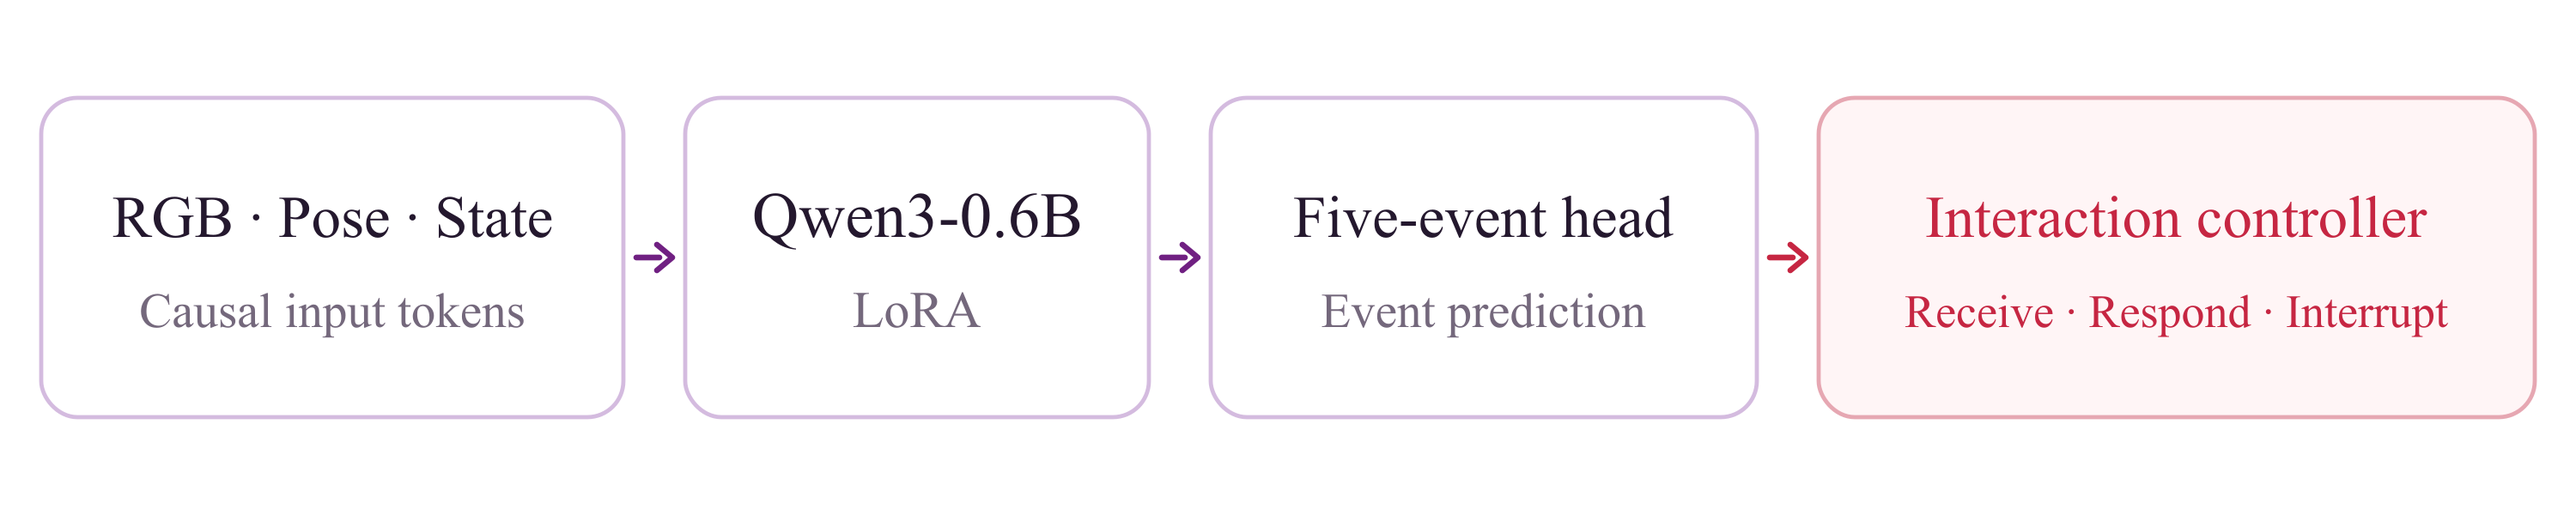
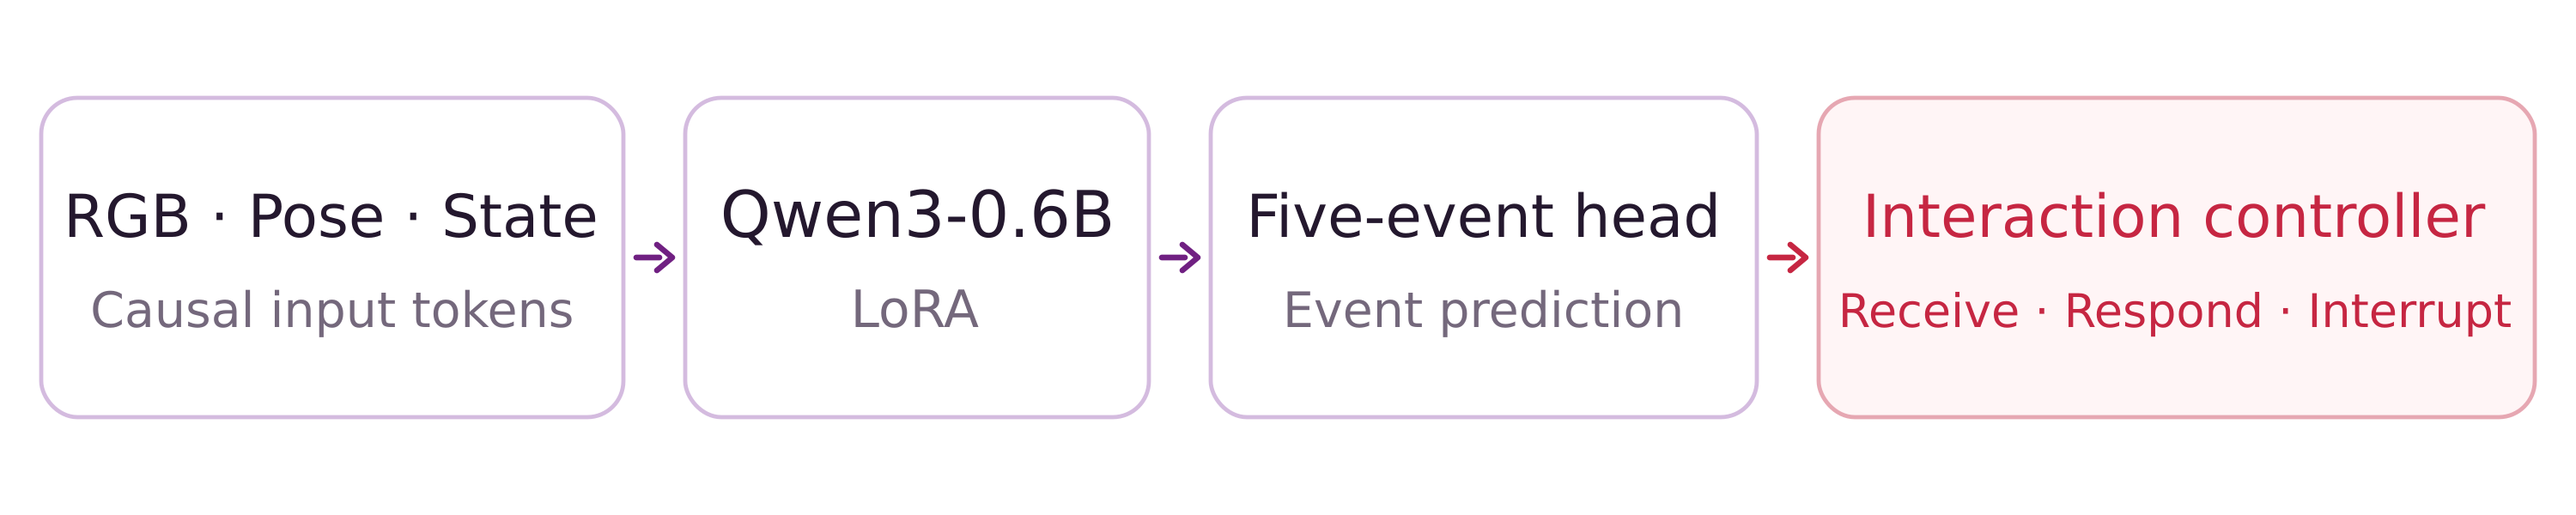
Match method diagram to chart font without bold text

diff --git a/docs/assets/build_method_summary.py b/docs/assets/build_method_summary.py
@@ -1,8 +1,8 @@
 """Build the compact SignDuplex paper-method SVG and its 3x PNG fallback.
 
 Run: python docs/assets/build_method_summary.py
-If Times New Roman is not installed, pass --font /path/to/times.ttf.
-Requires matplotlib, CairoSVG, and Times New Roman Regular.
+Optionally pass --font /path/to/DejaVuSans.ttf.
+Requires matplotlib, CairoSVG, and DejaVu Sans Regular.
 Edit LABELS to change native labels;
 the exported SVG outlines the font to keep typography consistent in README.
 """
@@ -23,7 +23,7 @@ from matplotlib.textpath import TextPath
 ROOT = Path(__file__).resolve().parent
 WIDTH, HEIGHT, SCALE = 1000, 200, 3
 PURPLE, RED, INK, MUTED = "#702082", "#c62642", "#24182e", "#74687c"
-FONT = "Times New Roman"
+FONT = "DejaVu Sans"
 LABELS = [
     (16, 226, "RGB · Pose · State", "Causal input tokens", 23, 19, False),
     (266, 180, "Qwen3-0.6B", "LoRA", 25, 20, False),
@@ -60,8 +60,8 @@ def build(font_file=None):
     font_file = font_file or findfont(
         FontProperties(family=FONT, weight="normal"), fallback_to_default=False)
     font = get_font(font_file)
-    if font.family_name != FONT or font.style_name != "Regular":
-        raise ValueError("The supplied font must be Times New Roman Regular.")
+    if font.family_name != FONT or font.style_name not in ("Book", "Regular"):
+        raise ValueError("The supplied font must be DejaVu Sans Regular.")
     body = ['<rect width="1000" height="200" fill="#fff"/>']
     bounds = []
     for index, (x, width, heading, subtitle, size, sub_size, bold) in enumerate(LABELS):
@@ -100,7 +100,7 @@ def build(font_file=None):
         "labels": [{"heading": item[2], "subtitle": item[3],
                     "heading_font_size": item[4], "subtitle_font_size": item[5]}
                    for item in LABELS],
-        "font": "Times New Roman Regular, outlined vector paths",
+        "font": "DejaVu Sans Regular, outlined vector paths",
         "raster_scale": SCALE,
     }, ensure_ascii=False))
     svg = (
@@ -135,5 +135,5 @@ def build(font_file=None):
 
 if __name__ == "__main__":
     parser = argparse.ArgumentParser(description=__doc__)
-    parser.add_argument("--font", help="Path to the Times New Roman Regular font file")
+    parser.add_argument("--font", help="Path to the DejaVu Sans Regular font file")
     build(parser.parse_args().font)
